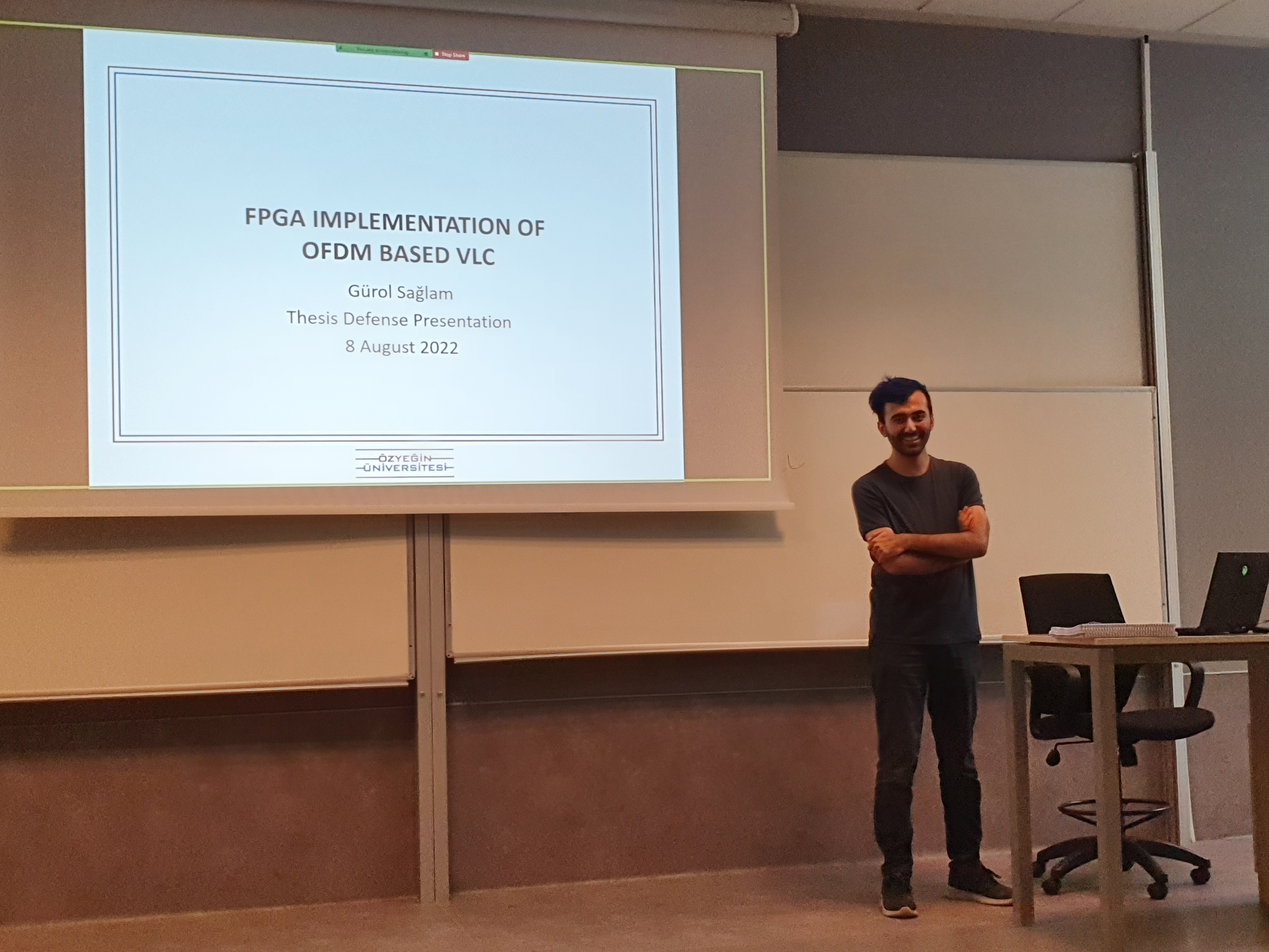
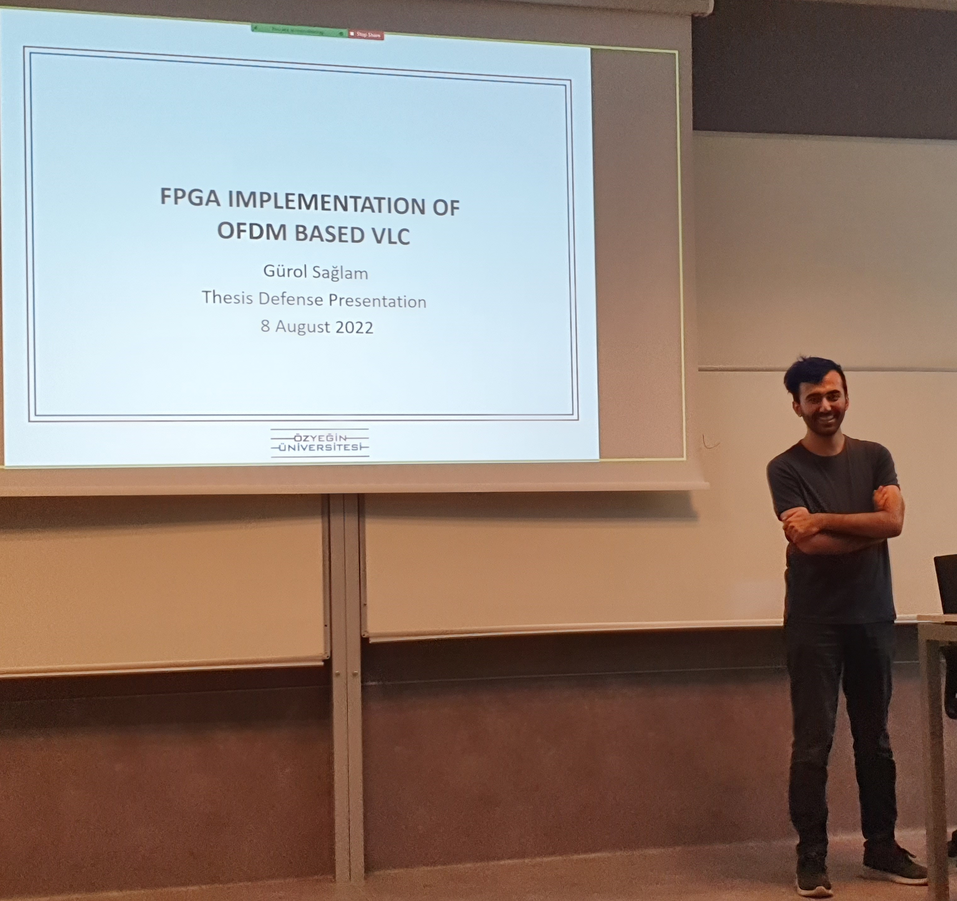
Theses img update

diff --git a/_pages/theses.md b/_pages/theses.md
@@ -19,7 +19,7 @@ permalink: /theses/
 
 **[nEMESysLab](https://ugurdag.com/nemesyslab.html), [Özyeğin University](https://www.ozyegin.edu.tr) &mdash; Turkey**
 
-In this thesis, DC Biased Optical OFDM (DCO-OFDM) for a VLC System was implemented on an FPGA. OFDM was originally devised as an RF methodology to carry multiple data within different frequencies in a signal. DCO-OFDM, however, is a specific category of OFDM that creates a signal transmittable via light sources (e.g. LEDs). Due to the high complexity of calculations in DCO-OFDM, it was implemented on an FPGA to meet the ever-increasing demand for higher bandwidth.
+<p class="text_rightimage">In this thesis, DC Biased Optical OFDM (DCO-OFDM) for a VLC System was implemented on an FPGA. OFDM was originally devised as an RF methodology to carry multiple data within different frequencies in a signal. DCO-OFDM, however, is a specific category of OFDM that creates a signal transmittable via light sources (e.g. LEDs). Due to the high complexity of calculations in DCO-OFDM, it was implemented on an FPGA to meet the ever-increasing demand for higher bandwidth. </p><img style="max-width: 40%; float: right;" alt="M.Sc. Thesis Defense" src="{{ site.baseurl }}/images/personal_imgs/thesis_msc_2022.jpg">
 
 - Implemented DC Biased Optical OFDM (DCO-OFDM) for a Visible Light Communication System on FPGA in Verilog
 - Leveraged Intel's Altera's Arria 10 SoC Development Kits and Analog Devices' AD-FMCDAQ2-EBZ Evaluation Boards, addressing required design area and ADC/DAC conversion precision along with sampling rate
@@ -28,8 +28,6 @@ In this thesis, DC Biased Optical OFDM (DCO-OFDM) for a VLC System was implement
 - Created testbenches for each module for verification, ensuring functionality
 - Used Matlab to simulate OFDM, and generate input and expected output for verification
 - **Publication:** V.E.Levent, **G.Saglam**, H.F.Ugurdag, N.F.R.Annafianto, F.Aydin, S.W.Tesfay, B.Aly, M.Elamassie, B.Kebapci, M.Uysal, FPGA Based DCO-OFDM PHY Transceiver for VLC Systems, 11th International Conference on Electrical and Electronics Engineering (ELECO), IEEE, Nov, 2019
-
-<img alt="M.Sc. Thesis Defense" src="{{ site.baseurl }}/images/personal_imgs/thesis_msc_2022.jpg">
 
 ---
 
